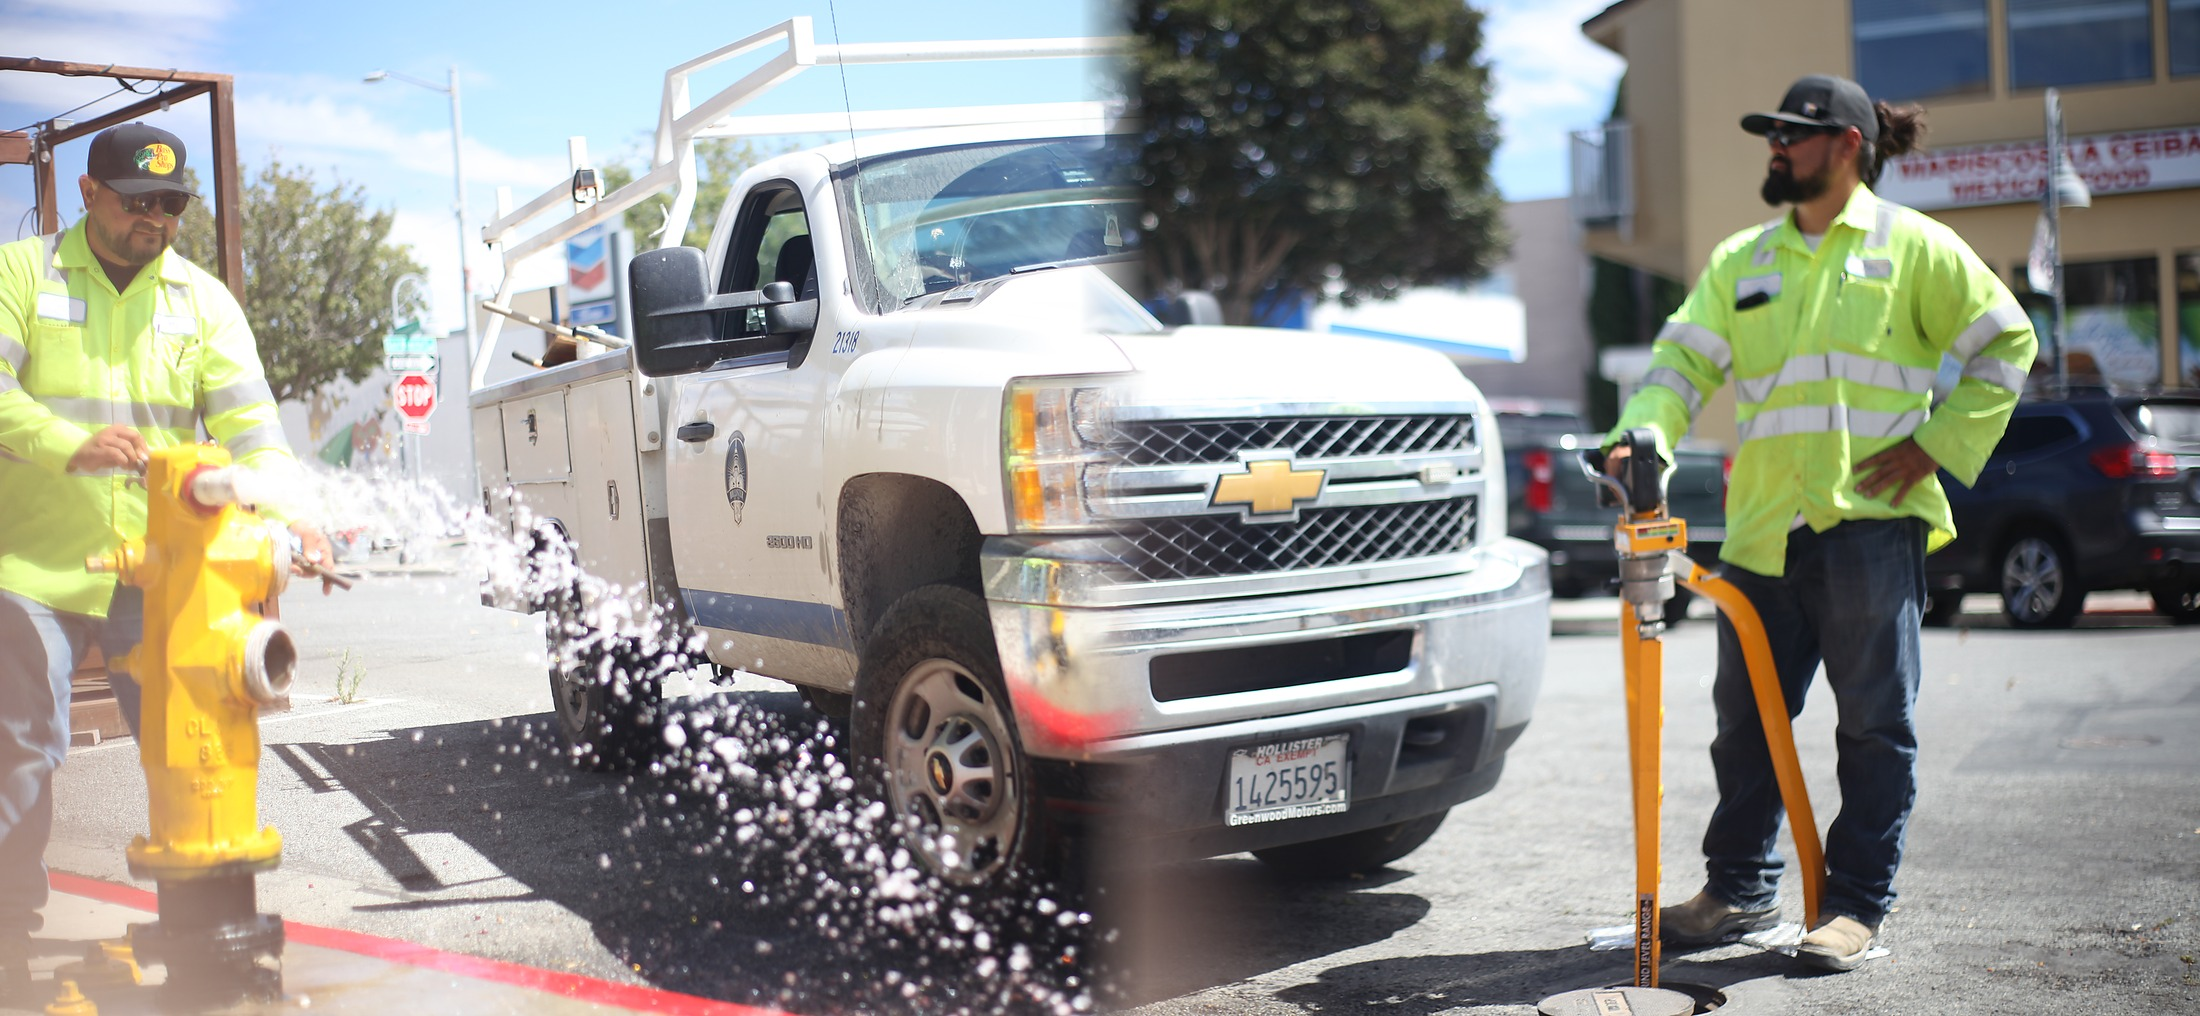
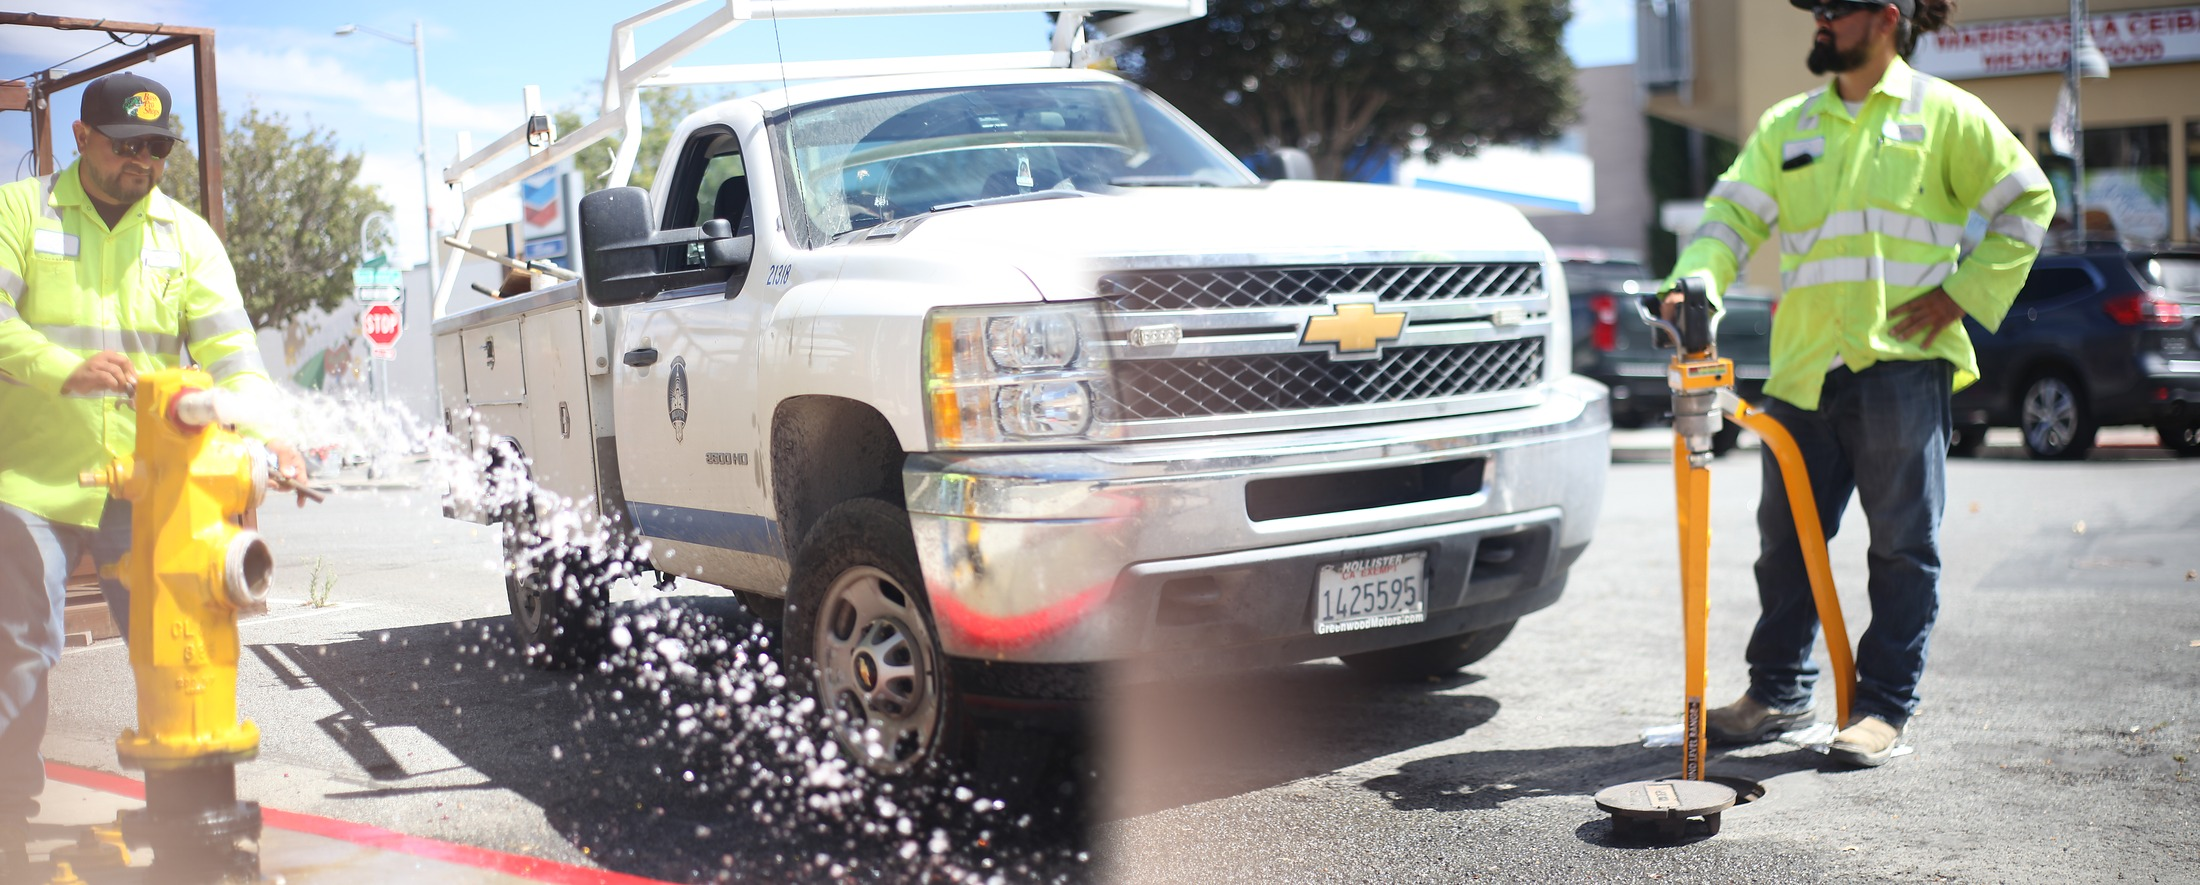
Update Jorge Torres and John Sanchez lead diptych.
Rebuild the hydrant-to-valve stitch from hi-res sources to match the tighter continuous truck composition.

diff --git a/index.html b/index.html
@@ -970,7 +970,7 @@
 
                 <figure class="work-figure">
                     <img src="photos/water-jorge-john.jpg"
-                         alt="Jorge Torres flushes a yellow fire hydrant on the left while John Sanchez operates a valve key in the street on the right, with City of Hollister water trucks between them." loading="lazy" decoding="async" width="2200" height="1016">
+                         alt="Jorge Torres flushes a yellow fire hydrant on the left while John Sanchez operates a valve key in the street on the right, with City of Hollister water trucks between them." loading="lazy" decoding="async" width="2200" height="885">
                     <figcaption>Jorge Torres (left) and John Sanchez (right). Two sides of the same water system, maintained by people who know this city.</figcaption>
                 </figure>
 
